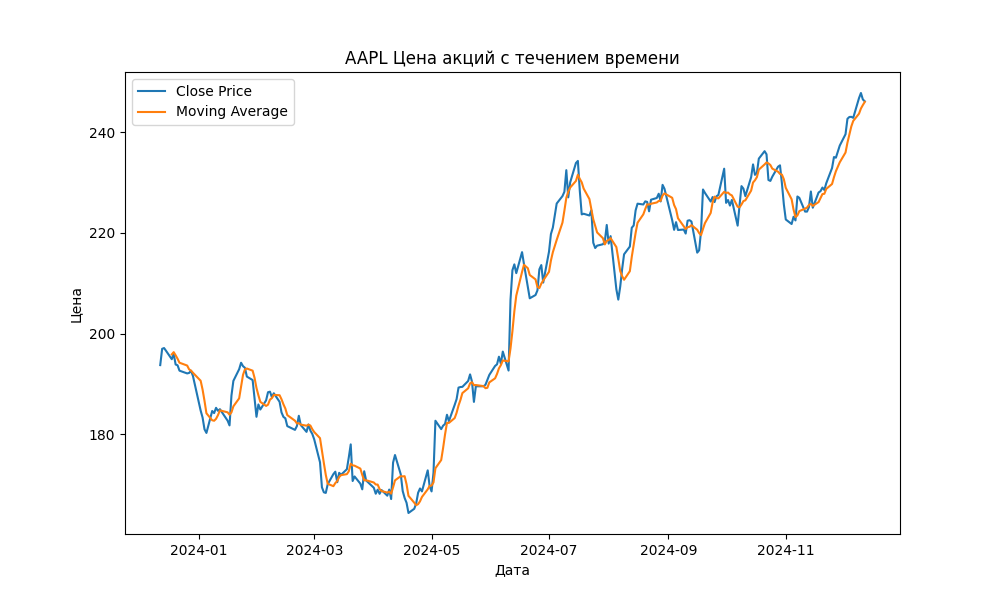
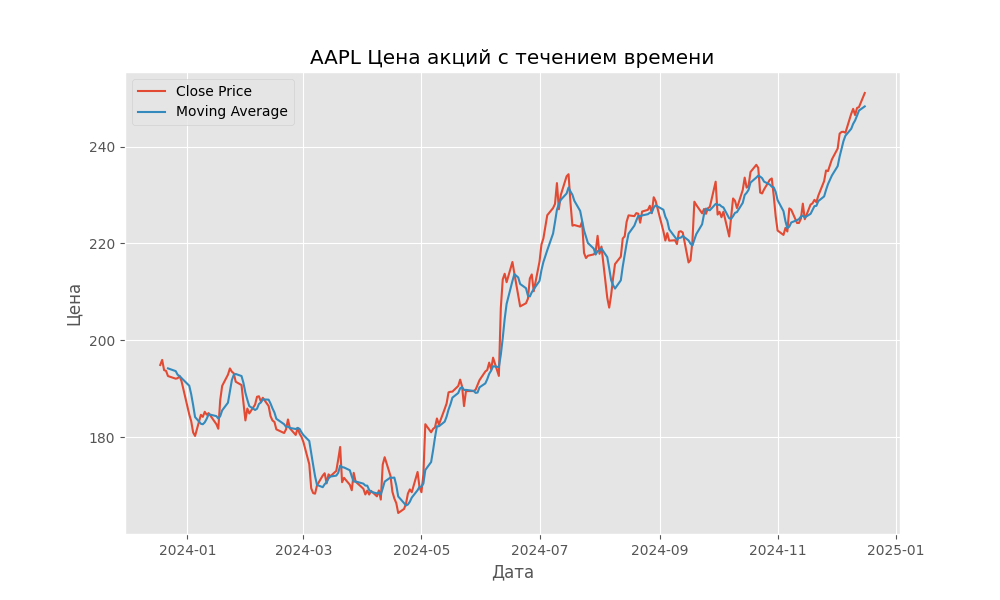
add 6 task

diff --git a/data_plotting.py b/data_plotting.py
@@ -15,6 +15,7 @@ def create_and_save_plot(data, ticker, period, filename=None):
     :param filename:
     :return:
     """
+
     plt.figure(figsize=(10, 6))
 
     if 'Date' not in data:
@@ -99,3 +100,15 @@ def update_macd_to_plot(df):
     plt.savefig(filename)
     plt.show()
     print(f'Дополненый MACD график сохранен в файл: {filename}')
+
+def set_style():
+    print("Доступные стили оформления графиков")
+    _ = [print(x, '. - ',plt.style.available[x]) for x in range(1, len(plt.style.available))]
+    try:
+        style_sel = int(input('Ваш выбор:»'))
+        style = plt.style.available[style_sel]
+    except:
+        print("Стиль не распознан - установлен default")
+        style = 'default'
+
+    plt.style.use(style)

diff --git a/main.py b/main.py
@@ -36,6 +36,9 @@ def main():
             date_end = dt.date.today()
             print("Дата не распознана, будет установлена сегодняшняя дата")
 
+    # set style
+    dplt.set_style()
+
     # Fetch stock data
     stock_data = dd.fetch_stock_data(ticker, start_date=date_start, end_date=date_end, period=period)
 
